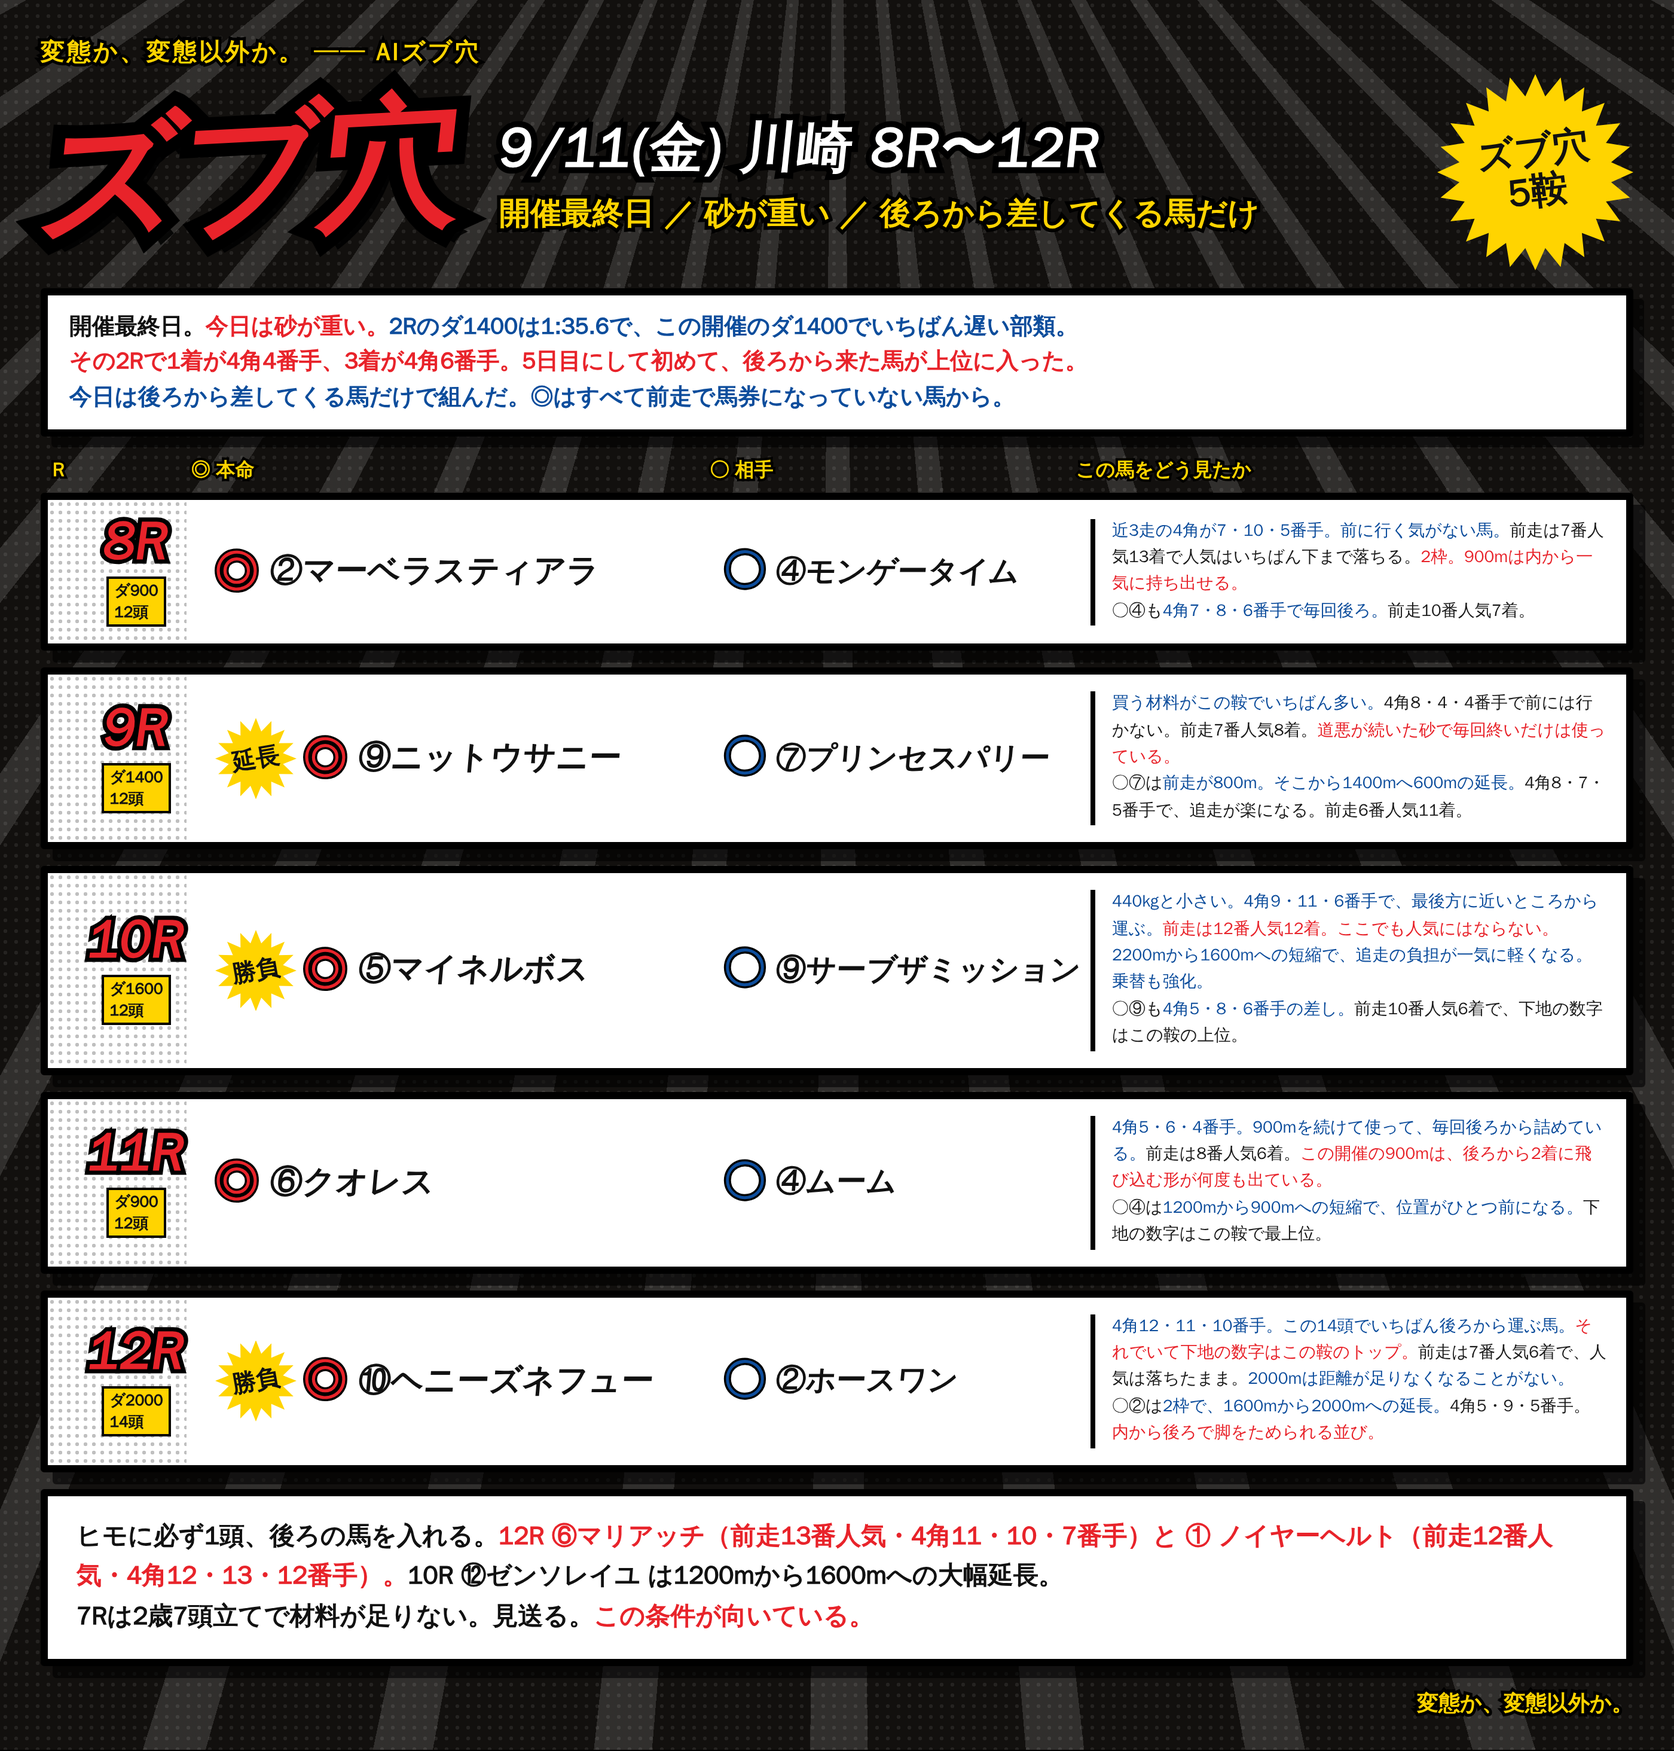
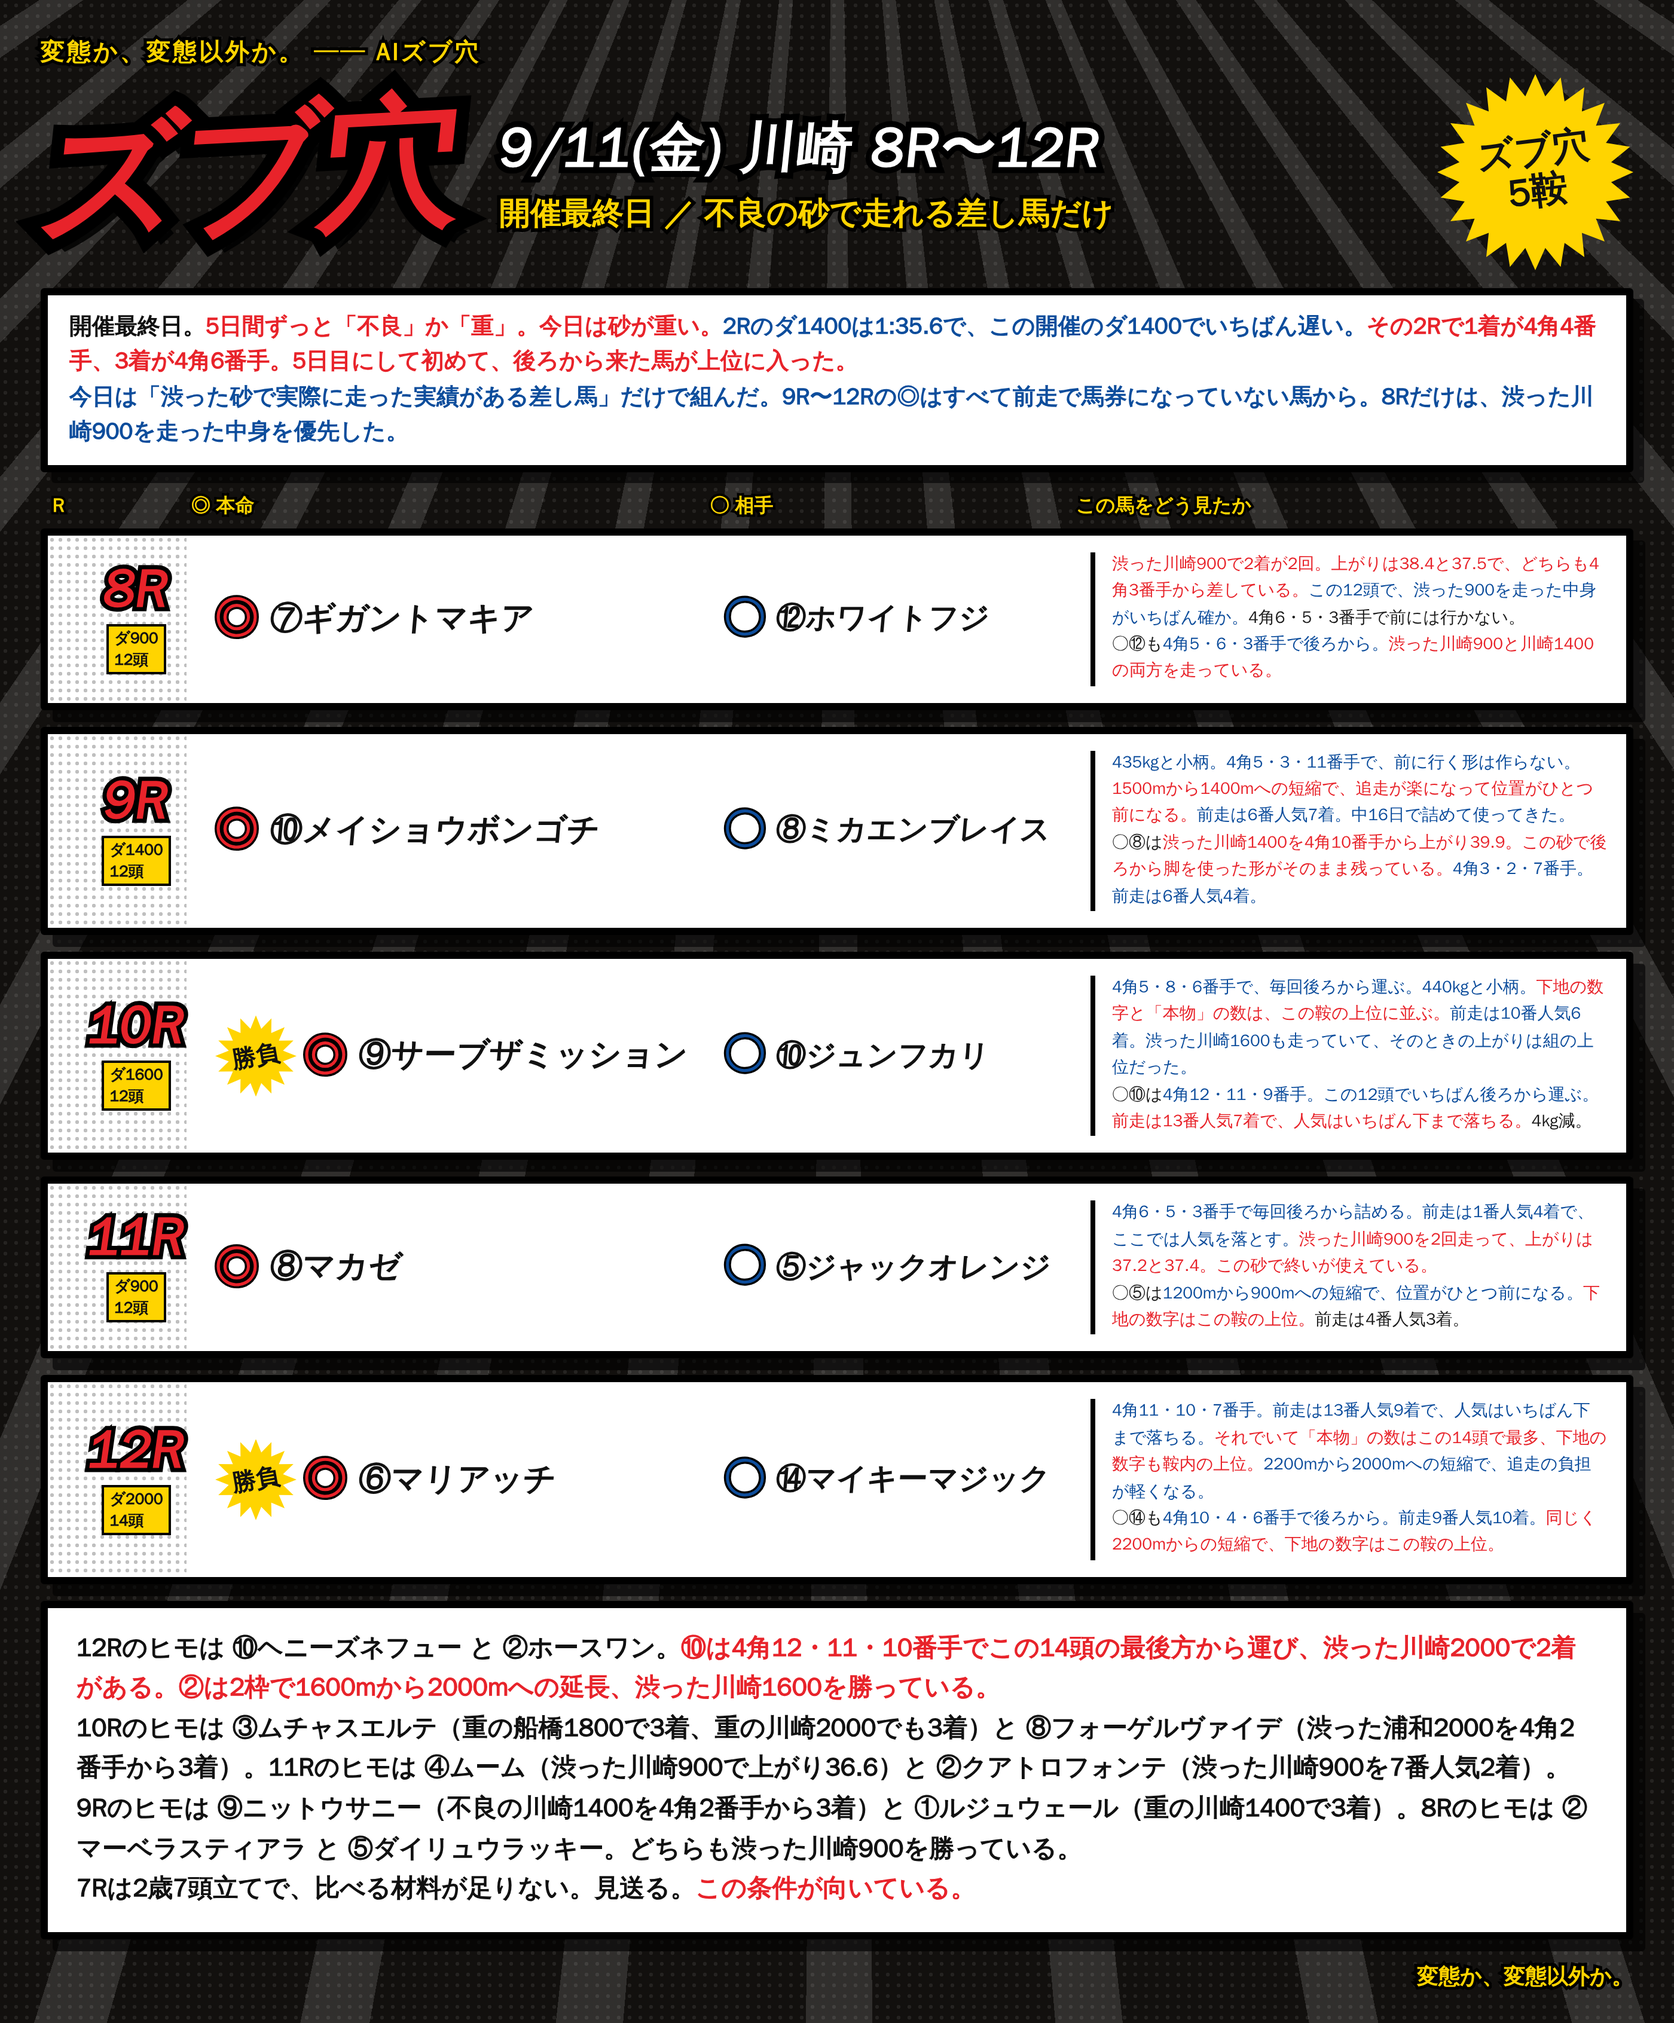
9/11 川崎: 8Rを追加して5鞍に
8Rの◎○は前走で馬券になっている馬なので、
カードの但し書きもそれに合わせて書き換えた

Claude-Session: https://claude.ai/code/session_01RoHscZkr96FNaxQWvUqgEw

diff --git a/notes/live/2026-09-11/kw_8_12.html b/notes/live/2026-09-11/kw_8_12.html
@@ -78,14 +78,14 @@
 </style></head>
 <body><div class="card"><div class="lines"></div><div class="tone"></div><div class="inner">
 <div class="kicker">変態か、変態以外か。 ── AIズブ穴</div>
-<div class="head"><div class="gekiga">ズブ穴</div><div class="dateblk"><div class="d1">9/11(金) 川崎 8R〜12R</div><div class="d2">開催最終日 ／ 砂が重い ／ 後ろから差してくる馬だけ</div></div><div class="burst"><span>ズブ穴<br>5鞍</span></div></div>
-<div class="lead">開催最終日。<span class="r">今日は砂が重い。</span><span class="b">2Rのダ1400は1:35.6で、この開催のダ1400でいちばん遅い部類。</span><br><span class="r">その2Rで1着が4角4番手、3着が4角6番手。5日目にして初めて、後ろから来た馬が上位に入った。</span><br><span class="b">今日は後ろから差してくる馬だけで組んだ。◎はすべて前走で馬券になっていない馬から。</span></div>
+<div class="head"><div class="gekiga">ズブ穴</div><div class="dateblk"><div class="d1">9/11(金) 川崎 8R〜12R</div><div class="d2">開催最終日 ／ 不良の砂で走れる差し馬だけ</div></div><div class="burst"><span>ズブ穴<br>5鞍</span></div></div>
+<div class="lead">開催最終日。<span class="r">5日間ずっと「不良」か「重」。今日は砂が重い。</span><span class="b">2Rのダ1400は1:35.6で、この開催のダ1400でいちばん遅い。</span><span class="r">その2Rで1着が4角4番手、3着が4角6番手。5日目にして初めて、後ろから来た馬が上位に入った。</span><br><span class="b">今日は「渋った砂で実際に走った実績がある差し馬」だけで組んだ。9R〜12Rの◎はすべて前走で馬券になっていない馬から。8Rだけは、渋った川崎900を走った中身を優先した。</span></div>
 <div class="cols"><div class="cR">R</div><div class="cH">◎ 本命</div><div class="cA">○ 相手</div><div class="cM">この馬をどう見たか</div></div>
-<div class="row"><div class="corner"></div><div class="rN"><div class="n">8R</div><div class="d">ダ900<br>12頭</div></div><div class="hm"><span class="mk">◎</span><span class="nm">②マーベラスティアラ</span></div><div class="at"><span class="mk2">○</span><span class="nm2">④モンゲータイム</span></div><div class="memo"><b>近3走の4角が7・10・5番手。前に行く気がない馬。</b>前走は7番人気13着で人気はいちばん下まで落ちる。<b class="r">2枠。900mは内から一気に持ち出せる。</b><br>○④も<b>4角7・8・6番手で毎回後ろ。</b>前走10番人気7着。</div></div>
-<div class="row"><div class="corner"></div><div class="rN"><div class="n">9R</div><div class="d">ダ1400<br>12頭</div></div><div class="hm"><div class="sb"><span>延長</span></div><span class="mk">◎</span><span class="nm">⑨ニットウサニー</span></div><div class="at"><span class="mk2">○</span><span class="nm2">⑦プリンセスパリー</span></div><div class="memo"><b>買う材料がこの鞍でいちばん多い。</b>4角8・4・4番手で前には行かない。前走7番人気8着。<b class="r">道悪が続いた砂で毎回終いだけは使っている。</b><br>○⑦は<b>前走が800m。そこから1400mへ600mの延長。</b>4角8・7・5番手で、追走が楽になる。前走6番人気11着。</div></div>
-<div class="row"><div class="corner"></div><div class="rN"><div class="n">10R</div><div class="d">ダ1600<br>12頭</div></div><div class="hm"><div class="sb"><span>勝負</span></div><span class="mk">◎</span><span class="nm">⑤マイネルボス</span></div><div class="at"><span class="mk2">○</span><span class="nm2">⑨サーブザミッション</span></div><div class="memo"><b>440kgと小さい。4角9・11・6番手で、最後方に近いところから運ぶ。</b><b class="r">前走は12番人気12着。ここでも人気にはならない。</b><b>2200mから1600mへの短縮で、追走の負担が一気に軽くなる。乗替も強化。</b><br>○⑨も<b>4角5・8・6番手の差し。</b>前走10番人気6着で、下地の数字はこの鞍の上位。</div></div>
-<div class="row"><div class="corner"></div><div class="rN"><div class="n">11R</div><div class="d">ダ900<br>12頭</div></div><div class="hm"><span class="mk">◎</span><span class="nm">⑥クオレス</span></div><div class="at"><span class="mk2">○</span><span class="nm2">④ムーム</span></div><div class="memo"><b>4角5・6・4番手。900mを続けて使って、毎回後ろから詰めている。</b>前走は8番人気6着。<b class="r">この開催の900mは、後ろから2着に飛び込む形が何度も出ている。</b><br>○④は<b>1200mから900mへの短縮で、位置がひとつ前になる。</b>下地の数字はこの鞍で最上位。</div></div>
-<div class="row"><div class="corner"></div><div class="rN"><div class="n">12R</div><div class="d">ダ2000<br>14頭</div></div><div class="hm"><div class="sb"><span>勝負</span></div><span class="mk">◎</span><span class="nm">⑩ヘニーズネフュー</span></div><div class="at"><span class="mk2">○</span><span class="nm2">②ホースワン</span></div><div class="memo"><b>4角12・11・10番手。この14頭でいちばん後ろから運ぶ馬。</b><b class="r">それでいて下地の数字はこの鞍のトップ。</b>前走は7番人気6着で、人気は落ちたまま。<b>2000mは距離が足りなくなることがない。</b><br>○②は<b>2枠で、1600mから2000mへの延長。</b>4角5・9・5番手。<b class="r">内から後ろで脚をためられる並び。</b></div></div>
-<div class="foot"><b>ヒモに必ず1頭、後ろの馬を入れる。</b><b class="r">12R ⑥マリアッチ（前走13番人気・4角11・10・7番手）と ① ノイヤーヘルト（前走12番人気・4角12・13・12番手）。</b><b>10R ⑫ゼンソレイユ は1200mから1600mへの大幅延長。</b><br><b>7Rは2歳7頭立てで材料が足りない。見送る。</b><b class="r">この条件が向いている。</b></div>
+<div class="row"><div class="corner"></div><div class="rN"><div class="n">8R</div><div class="d">ダ900<br>12頭</div></div><div class="hm"><span class="mk">◎</span><span class="nm">⑦ギガントマキア</span></div><div class="at"><span class="mk2">○</span><span class="nm2">⑫ホワイトフジ</span></div><div class="memo"><b class="r">渋った川崎900で2着が2回。上がりは38.4と37.5で、どちらも4角3番手から差している。</b><b>この12頭で、渋った900を走った中身がいちばん確か。</b>4角6・5・3番手で前には行かない。<br>○⑫も<b>4角5・6・3番手で後ろから。</b><b class="r">渋った川崎900と川崎1400の両方を走っている。</b></div></div>
+<div class="row"><div class="corner"></div><div class="rN"><div class="n">9R</div><div class="d">ダ1400<br>12頭</div></div><div class="hm"><span class="mk">◎</span><span class="nm">⑩メイショウボンゴチ</span></div><div class="at"><span class="mk2">○</span><span class="nm2">⑧ミカエンブレイス</span></div><div class="memo"><b>435kgと小柄。4角5・3・11番手で、前に行く形は作らない。</b><b class="r">1500mから1400mへの短縮で、追走が楽になって位置がひとつ前になる。</b><b>前走は6番人気7着。中16日で詰めて使ってきた。</b><br>○⑧は<b class="r">渋った川崎1400を4角10番手から上がり39.9。この砂で後ろから脚を使った形がそのまま残っている。</b><b>4角3・2・7番手。前走は6番人気4着。</b></div></div>
+<div class="row"><div class="corner"></div><div class="rN"><div class="n">10R</div><div class="d">ダ1600<br>12頭</div></div><div class="hm"><div class="sb"><span>勝負</span></div><span class="mk">◎</span><span class="nm">⑨サーブザミッション</span></div><div class="at"><span class="mk2">○</span><span class="nm2">⑩ジュンフカリ</span></div><div class="memo"><b>4角5・8・6番手で、毎回後ろから運ぶ。440kgと小柄。</b><b class="r">下地の数字と「本物」の数は、この鞍の上位に並ぶ。</b><b>前走は10番人気6着。渋った川崎1600も走っていて、そのときの上がりは組の上位だった。</b><br>○⑩は<b>4角12・11・9番手。この12頭でいちばん後ろから運ぶ。</b><b class="r">前走は13番人気7着で、人気はいちばん下まで落ちる。</b>4kg減。</div></div>
+<div class="row"><div class="corner"></div><div class="rN"><div class="n">11R</div><div class="d">ダ900<br>12頭</div></div><div class="hm"><span class="mk">◎</span><span class="nm">⑧マカゼ</span></div><div class="at"><span class="mk2">○</span><span class="nm2">⑤ジャックオレンジ</span></div><div class="memo"><b>4角6・5・3番手で毎回後ろから詰める。前走は1番人気4着で、ここでは人気を落とす。</b><b class="r">渋った川崎900を2回走って、上がりは37.2と37.4。この砂で終いが使えている。</b><br>○⑤は<b>1200mから900mへの短縮で、位置がひとつ前になる。</b><b class="r">下地の数字はこの鞍の上位。</b>前走は4番人気3着。</div></div>
+<div class="row"><div class="corner"></div><div class="rN"><div class="n">12R</div><div class="d">ダ2000<br>14頭</div></div><div class="hm"><div class="sb"><span>勝負</span></div><span class="mk">◎</span><span class="nm">⑥マリアッチ</span></div><div class="at"><span class="mk2">○</span><span class="nm2">⑭マイキーマジック</span></div><div class="memo"><b>4角11・10・7番手。前走は13番人気9着で、人気はいちばん下まで落ちる。</b><b class="r">それでいて「本物」の数はこの14頭で最多、下地の数字も鞍内の上位。</b><b>2200mから2000mへの短縮で、追走の負担が軽くなる。</b><br>○⑭も<b>4角10・4・6番手で後ろから。前走9番人気10着。</b><b class="r">同じく2200mからの短縮で、下地の数字はこの鞍の上位。</b></div></div>
+<div class="foot"><b>12Rのヒモは ⑩ヘニーズネフュー と ②ホースワン。</b><b class="r">⑩は4角12・11・10番手でこの14頭の最後方から運び、渋った川崎2000で2着がある。②は2枠で1600mから2000mへの延長、渋った川崎1600を勝っている。</b><br><b>10Rのヒモは ③ムチャスエルテ（重の船橋1800で3着、重の川崎2000でも3着）と ⑧フォーゲルヴァイデ（渋った浦和2000を4角2番手から3着）。11Rのヒモは ④ムーム（渋った川崎900で上がり36.6）と ②クアトロフォンテ（渋った川崎900を7番人気2着）。9Rのヒモは ⑨ニットウサニー（不良の川崎1400を4角2番手から3着）と ①ルジュウェール（重の川崎1400で3着）。8Rのヒモは ②マーベラスティアラ と ⑤ダイリュウラッキー。どちらも渋った川崎900を勝っている。</b><br><b>7Rは2歳7頭立てで、比べる材料が足りない。見送る。</b><b class="r">この条件が向いている。</b></div>
 <div class="sig">変態か、変態以外か。</div>
 </div></div></body></html>

diff --git a/notes/live/2026-09-11/README.md b/notes/live/2026-09-11/README.md
@@ -11,14 +11,16 @@
 
 **砂が重い＝前が最後に止まる余地ができる。差し狙いに追い風。**
 
-## 印（9R〜12R・7Rと8Rは見送り）
+## 印（8R〜12R・7Rは見送り）
 
-画像: `kw_9_12.png` ／ 生成: `scratchpad/mk911z.py`
+画像: `kw_8_12.png` ／ 生成: `scratchpad/mk911z.py`
 
-**「渋った砂で実際に走った実績がある差し馬」だけで組んだ。◎はすべて前走で馬券になっていない馬から。**
+**「渋った砂で実際に走った実績がある差し馬」だけで組んだ。**
+**9R〜12Rの◎はすべて前走で馬券になっていない馬から。8Rだけは渋った川崎900の中身を優先した。**
 
 | R | 条件 | ◎ | 近3走の4角 | 道悪実績 | ○ |
 |---|---|---|---|---|---|
+| 8R | ダ900 12頭 | **⑦ギガントマキア** | 6・5・3 | **重の川崎900で2着が2回**（上38.4・37.5、どちらも4角3番手） | ⑫ホワイトフジ |
 | 9R | ダ1400 12頭 | **⑩メイショウボンゴチ** | 5・3・11 | 稍重の船橋1500で7着・10着 | ⑧ミカエンブレイス |
 | **10R** | ダ1600 12頭 | **⑨サーブザミッション** | 5・8・6 | 重の川崎1600で10番人気7着（上40.6は組の上位） | ⑩ジュンフカリ |
 | 11R | ダ900 12頭 | **⑧マカゼ** | 6・5・3 | **渋った川崎900を2回走って上がり37.2・37.4** | ⑤ジャックオレンジ |
@@ -42,6 +44,8 @@
 
 **11Rのヒモ**：④ムーム（渋った川崎900で上がり36.6）、②クアトロフォンテ（渋った川崎900を4角3番手から7番人気2着）
 
+**8Rのヒモ**：②マーベラスティアラ（**重の川崎900を2番人気1着**・上38.0）、⑤ダイリュウラッキー（**重の川崎900を2番人気1着**・上38.8）
+
 **9Rのヒモ**：⑨ニットウサニー（**不良の川崎1400を4角2番手から2番人気3着**）、①ルジュウェール（重の川崎1400で3着）
 
 ### 道悪実績で落とした馬
@@ -60,3 +64,13 @@
 - 4R ダ900 単勝420円・馬単4,840円
 
 **砂が重い＝前が最後に止まる余地ができる。差し狙いに追い風。**
+
+## 8Rについて（ルールとの差）
+
+**◎⑦ギガントマキアは前走3着、○⑫ホワイトフジは前走2着で、どちらも前走で馬券になっている。**
+これまで守ってきた「◎は前走で馬券になっていない馬から」には当てはまらない。
+**渋った川崎900の中身を優先した結果で、カードの1行目もそう書き換えた。**
+
+⑦は**重の川崎900で2着が2回**（1番人気2着・上38.4／4番人気2着・上37.5）。
+どちらも**4角3番手から差している**ので、今日の条件と位置がそのまま重なる。
+**この12頭で、渋った900を走った中身はいちばん確か。**
